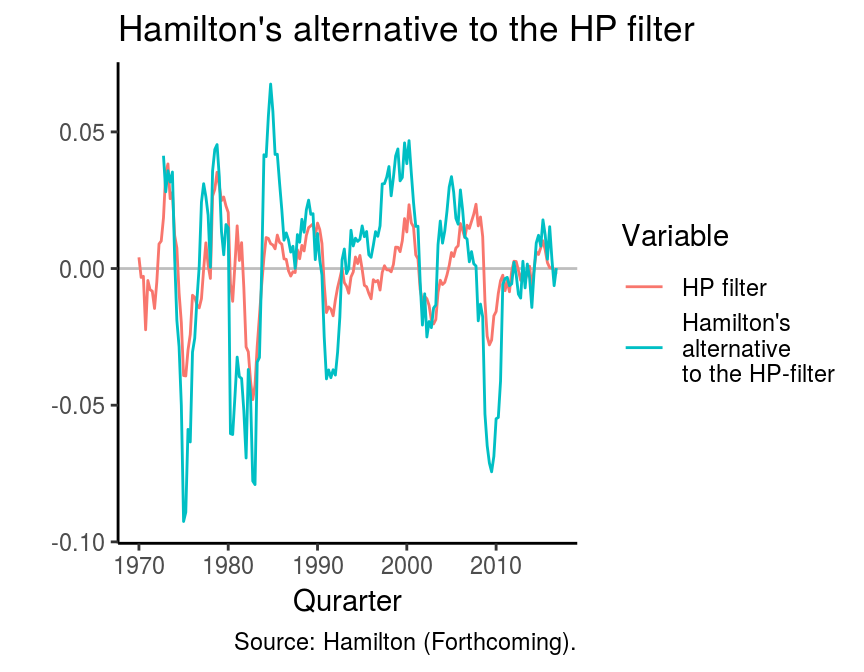
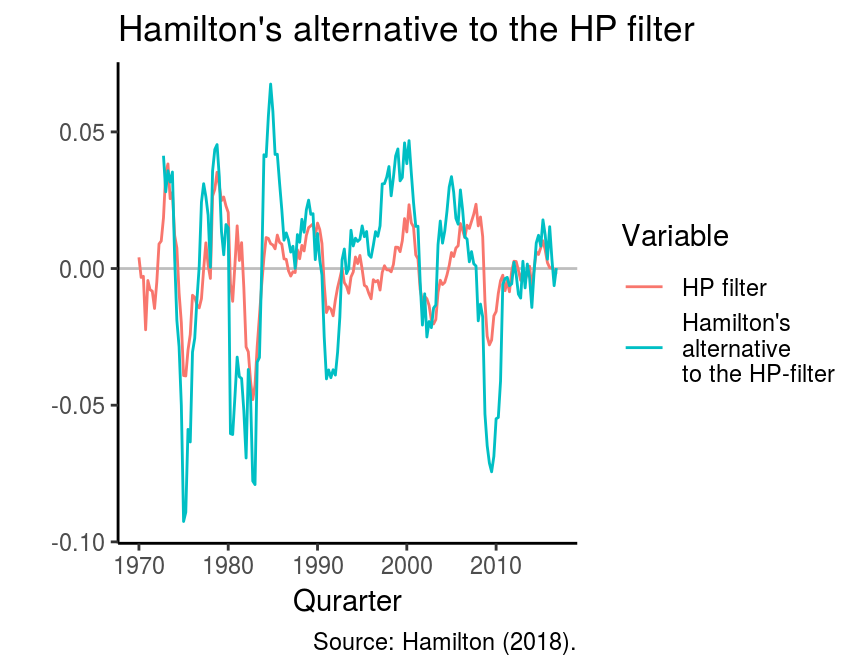
Update post on detrending

Changed region(s): [[0.25, 0.9375, 0.6562, 0.9688]]

diff --git a/public/timeseries/economic-cycle-extraction/index.html b/public/timeseries/economic-cycle-extraction/index.html
@@ -100,6 +100,12 @@ if (!doNotTrack) {
                                 
                                     <a href="https://www.r-econometrics.com//tags/baxter-king">baxter-king</a>
                                 
+                                    <a href="https://www.r-econometrics.com//tags/hamilton">hamilton</a>
+                                
+                                    <a href="https://www.r-econometrics.com//tags/business-cycles">business-cycles</a>
+                                
+                                    <a href="https://www.r-econometrics.com//tags/detrend">detrend</a>
+                                
                                     <a href="https://www.r-econometrics.com//tags/wavelet">wavelet</a>
                                 
                                     <a href="https://www.r-econometrics.com//tags/emd">emd</a>
@@ -109,7 +115,7 @@ if (!doNotTrack) {
                             
                         </span>
                          - 
-                        <time class="li-article-date">Franz X. Mohr, December 2, 2018
+                        <time class="li-article-date">Franz X. Mohr, December 27, 2018
                         </time>
                     </header>
                     <section>
@@ -247,7 +253,7 @@ ggplot(temp, aes(x = date, y = value, colour = Variable)) +
   theme_classic() +
   labs(title = &quot;Hamilton&#39;s alternative to the HP filter&quot;,
        x = &quot;Qurarter&quot;, y = &quot;&quot;, 
-       caption = &quot;Source: Hamilton (Forthcoming).&quot;)</code></pre>
+       caption = &quot;Source: Hamilton (2018).&quot;)</code></pre>
 <p><img src="/timeseries/economic-cycle-extraction_files/figure-html/hp%20augmented-1.png" width="432" /></p>
 </div>
 <div id="baxter-king-filter" class="section level2">
@@ -380,16 +386,16 @@ ggplot(temp, aes(x = date, y = value, colour = Variable)) +
 <div id="references" class="section level2">
 <h2>References</h2>
 <p>Balcilar, M. (2018). mFilter: Miscellaneous Time Series Filters. R package version 0.1-4. <a href="https://CRAN.R-project.org/package=mFilter" class="uri">https://CRAN.R-project.org/package=mFilter</a></p>
-<p>Baxter, M., &amp; King, R. O. (1999). Measuring Business Cycles: Approximate Band-Pass Filters for Economic Time Series. Review of Economics &amp; Statistics, 81(4), 575–593.</p>
-<p>Hamilton, J. D. (Forthcoming), Why you should never use the Hodrick-Prescott filter. Review of Economics and Statistics.</p>
+<p>Baxter, M., &amp; King, R. O. (1999). Measuring Business Cycles: Approximate Band-Pass Filters for Economic Time Series. <em>Review of Economics and Statistics</em>, 81(4), 575–593.</p>
+<p>Hamilton, J. D. (2018), Why you should never use the Hodrick-Prescott filter. <em>Review of Economics and Statistics</em>, 100(5), 831-843. <a href="https://doi.org/10.1162/rest_a_00706" class="uri">https://doi.org/10.1162/rest_a_00706</a></p>
 <p>Kim, D. and Oh, H.-S. (2014). EMD: Empirical Mode Decomposition and Hilbert Spectral Analysis. R package version 1.5.7.</p>
-<p>Kožić, I., &amp; Sever, I. (2014). Measuring business cycles: Empirical Mode Decomposition of economic time series. Economics Letters, 123(3), 287–290. <a href="doi:10.1016/j.econlet.2014.03.009" class="uri">doi:10.1016/j.econlet.2014.03.009</a></p>
+<p>Kožić, I., &amp; Sever, I. (2014). Measuring business cycles: Empirical Mode Decomposition of economic time series. Economics Letters, 123(3), 287–290. <a href="https://doi.org/10.1016/j.econlet.2014.03.009" class="uri">https://doi.org/10.1016/j.econlet.2014.03.009</a></p>
 <p>McTaggart, R., Daroczi, G., &amp; Leung, C. (2018). Quandl: API Wrapper for Quandl.com. R package version 2.9.1. <a href="https://CRAN.R-project.org/package=Quandl" class="uri">https://CRAN.R-project.org/package=Quandl</a></p>
 <p>Stock, J. H., &amp; Watson, M. W. (1999). Business Cycle Fluctuations in US Macroeconomic Time Series. In J. B. Taylor &amp; M. Woodford (Eds.), Handbook of Macroeconomics. Handbook of Macroeconomics (pp. 3–64). Elsevier.</p>
 <p>Whitcher, B. (2015). waveslim: Basic wavelet routines for one-, two- and three-dimensional signal processing. R package version 1.7.5. <a href="https://CRAN.R-project.org/package=waveslim" class="uri">https://CRAN.R-project.org/package=waveslim</a></p>
 <p>Wickham, H. (2016). ggplot2: Elegant Graphics for Data Analysis. Springer-Verlag New York.</p>
 <p>Wickham, H., François, R., Henry, L., &amp; Müller, K. (2018). dplyr: A Grammar of Data Manipulation. R package version 0.7.8. <a href="https://CRAN.R-project.org/package=dplyr" class="uri">https://CRAN.R-project.org/package=dplyr</a></p>
-<p>Yogo, M. (2008). Measuring business cycles: A wavelet analysis of economic time series. Economics Letters, 100(2), 208–212. <a href="doi:10.1016/j.econlet.2008.01.008" class="uri">doi:10.1016/j.econlet.2008.01.008</a></p>
+<p>Yogo, M. (2008). Measuring business cycles: A wavelet analysis of economic time series. Economics Letters, 100(2), 208–212. <a href="https://doi.org/10.1016/j.econlet.2008.01.008" class="uri">https://doi.org/10.1016/j.econlet.2008.01.008</a></p>
 </div>
 
                     </section>

diff --git a/content/timeseries/economic-cycle-extraction.html b/content/timeseries/economic-cycle-extraction.html
@@ -1,11 +1,14 @@
 ---
 title: "Extracting Cyclical Components From Economic Time Series"
 author: "Franz X. Mohr"
-date: "2018-12-02"
+date: "2018-12-27"
 tags:
   - hp-filter
   - hodrick-prescott
   - baxter-king
+  - hamilton
+  - business-cycles
+  - detrend
   - wavelet
   - emd
   - empirical-mode-decomposition
@@ -147,7 +150,7 @@ ggplot(temp, aes(x = date, y = value, colour = Variable)) +
   theme_classic() +
   labs(title = &quot;Hamilton&#39;s alternative to the HP filter&quot;,
        x = &quot;Qurarter&quot;, y = &quot;&quot;, 
-       caption = &quot;Source: Hamilton (Forthcoming).&quot;)</code></pre>
+       caption = &quot;Source: Hamilton (2018).&quot;)</code></pre>
 <p><img src="/timeseries/economic-cycle-extraction_files/figure-html/hp%20augmented-1.png" width="432" /></p>
 </div>
 <div id="baxter-king-filter" class="section level2">
@@ -280,14 +283,14 @@ ggplot(temp, aes(x = date, y = value, colour = Variable)) +
 <div id="references" class="section level2">
 <h2>References</h2>
 <p>Balcilar, M. (2018). mFilter: Miscellaneous Time Series Filters. R package version 0.1-4. <a href="https://CRAN.R-project.org/package=mFilter" class="uri">https://CRAN.R-project.org/package=mFilter</a></p>
-<p>Baxter, M., &amp; King, R. O. (1999). Measuring Business Cycles: Approximate Band-Pass Filters for Economic Time Series. Review of Economics &amp; Statistics, 81(4), 575–593.</p>
-<p>Hamilton, J. D. (Forthcoming), Why you should never use the Hodrick-Prescott filter. Review of Economics and Statistics.</p>
+<p>Baxter, M., &amp; King, R. O. (1999). Measuring Business Cycles: Approximate Band-Pass Filters for Economic Time Series. <em>Review of Economics and Statistics</em>, 81(4), 575–593.</p>
+<p>Hamilton, J. D. (2018), Why you should never use the Hodrick-Prescott filter. <em>Review of Economics and Statistics</em>, 100(5), 831-843. <a href="https://doi.org/10.1162/rest_a_00706" class="uri">https://doi.org/10.1162/rest_a_00706</a></p>
 <p>Kim, D. and Oh, H.-S. (2014). EMD: Empirical Mode Decomposition and Hilbert Spectral Analysis. R package version 1.5.7.</p>
-<p>Kožić, I., &amp; Sever, I. (2014). Measuring business cycles: Empirical Mode Decomposition of economic time series. Economics Letters, 123(3), 287–290. <a href="doi:10.1016/j.econlet.2014.03.009" class="uri">doi:10.1016/j.econlet.2014.03.009</a></p>
+<p>Kožić, I., &amp; Sever, I. (2014). Measuring business cycles: Empirical Mode Decomposition of economic time series. Economics Letters, 123(3), 287–290. <a href="https://doi.org/10.1016/j.econlet.2014.03.009" class="uri">https://doi.org/10.1016/j.econlet.2014.03.009</a></p>
 <p>McTaggart, R., Daroczi, G., &amp; Leung, C. (2018). Quandl: API Wrapper for Quandl.com. R package version 2.9.1. <a href="https://CRAN.R-project.org/package=Quandl" class="uri">https://CRAN.R-project.org/package=Quandl</a></p>
 <p>Stock, J. H., &amp; Watson, M. W. (1999). Business Cycle Fluctuations in US Macroeconomic Time Series. In J. B. Taylor &amp; M. Woodford (Eds.), Handbook of Macroeconomics. Handbook of Macroeconomics (pp. 3–64). Elsevier.</p>
 <p>Whitcher, B. (2015). waveslim: Basic wavelet routines for one-, two- and three-dimensional signal processing. R package version 1.7.5. <a href="https://CRAN.R-project.org/package=waveslim" class="uri">https://CRAN.R-project.org/package=waveslim</a></p>
 <p>Wickham, H. (2016). ggplot2: Elegant Graphics for Data Analysis. Springer-Verlag New York.</p>
 <p>Wickham, H., François, R., Henry, L., &amp; Müller, K. (2018). dplyr: A Grammar of Data Manipulation. R package version 0.7.8. <a href="https://CRAN.R-project.org/package=dplyr" class="uri">https://CRAN.R-project.org/package=dplyr</a></p>
-<p>Yogo, M. (2008). Measuring business cycles: A wavelet analysis of economic time series. Economics Letters, 100(2), 208–212. <a href="doi:10.1016/j.econlet.2008.01.008" class="uri">doi:10.1016/j.econlet.2008.01.008</a></p>
+<p>Yogo, M. (2008). Measuring business cycles: A wavelet analysis of economic time series. Economics Letters, 100(2), 208–212. <a href="https://doi.org/10.1016/j.econlet.2008.01.008" class="uri">https://doi.org/10.1016/j.econlet.2008.01.008</a></p>
 </div>

diff --git a/public/tags/business-cycles/index.html b/public/tags/business-cycles/index.html
@@ -5,13 +5,13 @@
         <meta http-equiv="content-type" content="text/html; charset=utf-8" />
         <meta name="viewport" content="width=device-width, initial-scale=1.0, maximum-scale=1" />
 
-        <title>Emd &middot; r-econometrics</title>
+        <title>Business Cycles &middot; r-econometrics</title>
         <link rel='stylesheet' href='//fonts.googleapis.com/css?family=Open+Sans:400,300,600' type='text/css'>
         <link rel="stylesheet" href="https://www.r-econometrics.com//libraries/normalize.3.0.1.css" />
         <link rel="stylesheet" href="https://www.r-econometrics.com//css/liquorice.css" />
         <link rel="shortcut icon" href="/favicon.ico" />
         <link rel="apple-touch-icon-precomposed" href="/apple-touch-icon-144-precomposed.png" sizes="144x144" />
-        <link rel="alternate" href="https://www.r-econometrics.com/tags/emd/index.xml" type="application/rss+xml" title="r-econometrics" />
+        <link rel="alternate" href="https://www.r-econometrics.com/tags/business-cycles/index.xml" type="application/rss+xml" title="r-econometrics" />
     </head>
     <body class="li-body">
 
@@ -67,7 +67,7 @@
     <div class="container">
         <div class="row">
             <div class="sixteen columns">
-                <h1>Emd</h1>
+                <h1>Business Cycles</h1>
                 <ul class="li-article-list">
                     
                         <li>

diff --git a/public/tags/hamilton/index.html b/public/tags/hamilton/index.html
@@ -5,13 +5,13 @@
         <meta http-equiv="content-type" content="text/html; charset=utf-8" />
         <meta name="viewport" content="width=device-width, initial-scale=1.0, maximum-scale=1" />
 
-        <title>Emd &middot; r-econometrics</title>
+        <title>Hamilton &middot; r-econometrics</title>
         <link rel='stylesheet' href='//fonts.googleapis.com/css?family=Open+Sans:400,300,600' type='text/css'>
         <link rel="stylesheet" href="https://www.r-econometrics.com//libraries/normalize.3.0.1.css" />
         <link rel="stylesheet" href="https://www.r-econometrics.com//css/liquorice.css" />
         <link rel="shortcut icon" href="/favicon.ico" />
         <link rel="apple-touch-icon-precomposed" href="/apple-touch-icon-144-precomposed.png" sizes="144x144" />
-        <link rel="alternate" href="https://www.r-econometrics.com/tags/emd/index.xml" type="application/rss+xml" title="r-econometrics" />
+        <link rel="alternate" href="https://www.r-econometrics.com/tags/hamilton/index.xml" type="application/rss+xml" title="r-econometrics" />
     </head>
     <body class="li-body">
 
@@ -67,7 +67,7 @@
     <div class="container">
         <div class="row">
             <div class="sixteen columns">
-                <h1>Emd</h1>
+                <h1>Hamilton</h1>
                 <ul class="li-article-list">
                     
                         <li>

diff --git a/public/tags/detrend/index.html b/public/tags/detrend/index.html
@@ -5,13 +5,13 @@
         <meta http-equiv="content-type" content="text/html; charset=utf-8" />
         <meta name="viewport" content="width=device-width, initial-scale=1.0, maximum-scale=1" />
 
-        <title>Emd &middot; r-econometrics</title>
+        <title>Detrend &middot; r-econometrics</title>
         <link rel='stylesheet' href='//fonts.googleapis.com/css?family=Open+Sans:400,300,600' type='text/css'>
         <link rel="stylesheet" href="https://www.r-econometrics.com//libraries/normalize.3.0.1.css" />
         <link rel="stylesheet" href="https://www.r-econometrics.com//css/liquorice.css" />
         <link rel="shortcut icon" href="/favicon.ico" />
         <link rel="apple-touch-icon-precomposed" href="/apple-touch-icon-144-precomposed.png" sizes="144x144" />
-        <link rel="alternate" href="https://www.r-econometrics.com/tags/emd/index.xml" type="application/rss+xml" title="r-econometrics" />
+        <link rel="alternate" href="https://www.r-econometrics.com/tags/detrend/index.xml" type="application/rss+xml" title="r-econometrics" />
     </head>
     <body class="li-body">
 
@@ -67,7 +67,7 @@
     <div class="container">
         <div class="row">
             <div class="sixteen columns">
-                <h1>Emd</h1>
+                <h1>Detrend</h1>
                 <ul class="li-article-list">
                     
                         <li>

diff --git a/public/tags/index.html b/public/tags/index.html
@@ -79,6 +79,14 @@
                         </li>
                     
                         <li>
+                            <h4><a href="https://www.r-econometrics.com//tags/business-cycles">business-cycles</a></h4>
+                        </li>
+                    
+                        <li>
+                            <h4><a href="https://www.r-econometrics.com//tags/detrend">detrend</a></h4>
+                        </li>
+                    
+                        <li>
                             <h4><a href="https://www.r-econometrics.com//tags/emd">emd</a></h4>
                         </li>
                     
@@ -96,6 +104,10 @@
                     
                         <li>
                             <h4><a href="https://www.r-econometrics.com//tags/graphics">graphics</a></h4>
+                        </li>
+                    
+                        <li>
+                            <h4><a href="https://www.r-econometrics.com//tags/hamilton">hamilton</a></h4>
                         </li>
                     
                         <li>

diff --git a/public/tags/baxter-king/index.html b/public/tags/baxter-king/index.html
@@ -71,7 +71,7 @@
                 <ul class="li-article-list">
                     
                         <li>
-                            <time class="li-article-date">December, 2, 2018</time>
+                            <time class="li-article-date">December, 27, 2018</time>
                             <h4><a href="https://www.r-econometrics.com/timeseries/economic-cycle-extraction/">Extracting Cyclical Components From Economic Time Series</a></h4>
                         </li>
                     

diff --git a/public/tags/empirical-mode-decomposition/index.html b/public/tags/empirical-mode-decomposition/index.html
@@ -71,7 +71,7 @@
                 <ul class="li-article-list">
                     
                         <li>
-                            <time class="li-article-date">December, 2, 2018</time>
+                            <time class="li-article-date">December, 27, 2018</time>
                             <h4><a href="https://www.r-econometrics.com/timeseries/economic-cycle-extraction/">Extracting Cyclical Components From Economic Time Series</a></h4>
                         </li>
                     

diff --git a/public/tags/hodrick-prescott/index.html b/public/tags/hodrick-prescott/index.html
@@ -71,7 +71,7 @@
                 <ul class="li-article-list">
                     
                         <li>
-                            <time class="li-article-date">December, 2, 2018</time>
+                            <time class="li-article-date">December, 27, 2018</time>
                             <h4><a href="https://www.r-econometrics.com/timeseries/economic-cycle-extraction/">Extracting Cyclical Components From Economic Time Series</a></h4>
                         </li>
                     

diff --git a/public/tags/hp-filter/index.html b/public/tags/hp-filter/index.html
@@ -71,7 +71,7 @@
                 <ul class="li-article-list">
                     
                         <li>
-                            <time class="li-article-date">December, 2, 2018</time>
+                            <time class="li-article-date">December, 27, 2018</time>
                             <h4><a href="https://www.r-econometrics.com/timeseries/economic-cycle-extraction/">Extracting Cyclical Components From Economic Time Series</a></h4>
                         </li>
                     

diff --git a/public/tags/wavelet/index.html b/public/tags/wavelet/index.html
@@ -71,7 +71,7 @@
                 <ul class="li-article-list">
                     
                         <li>
-                            <time class="li-article-date">December, 2, 2018</time>
+                            <time class="li-article-date">December, 27, 2018</time>
                             <h4><a href="https://www.r-econometrics.com/timeseries/economic-cycle-extraction/">Extracting Cyclical Components From Economic Time Series</a></h4>
                         </li>
                     

diff --git a/public/timeseries/index.html b/public/timeseries/index.html
@@ -71,7 +71,7 @@
                 <ul class="li-article-list">
                     
                         <li>
-                            <time class="li-article-date">December, 2, 2018</time>
+                            <time class="li-article-date">December, 27, 2018</time>
                             <h4><a href="https://www.r-econometrics.com/timeseries/economic-cycle-extraction/">Extracting Cyclical Components From Economic Time Series</a></h4>
                         </li>
                     
